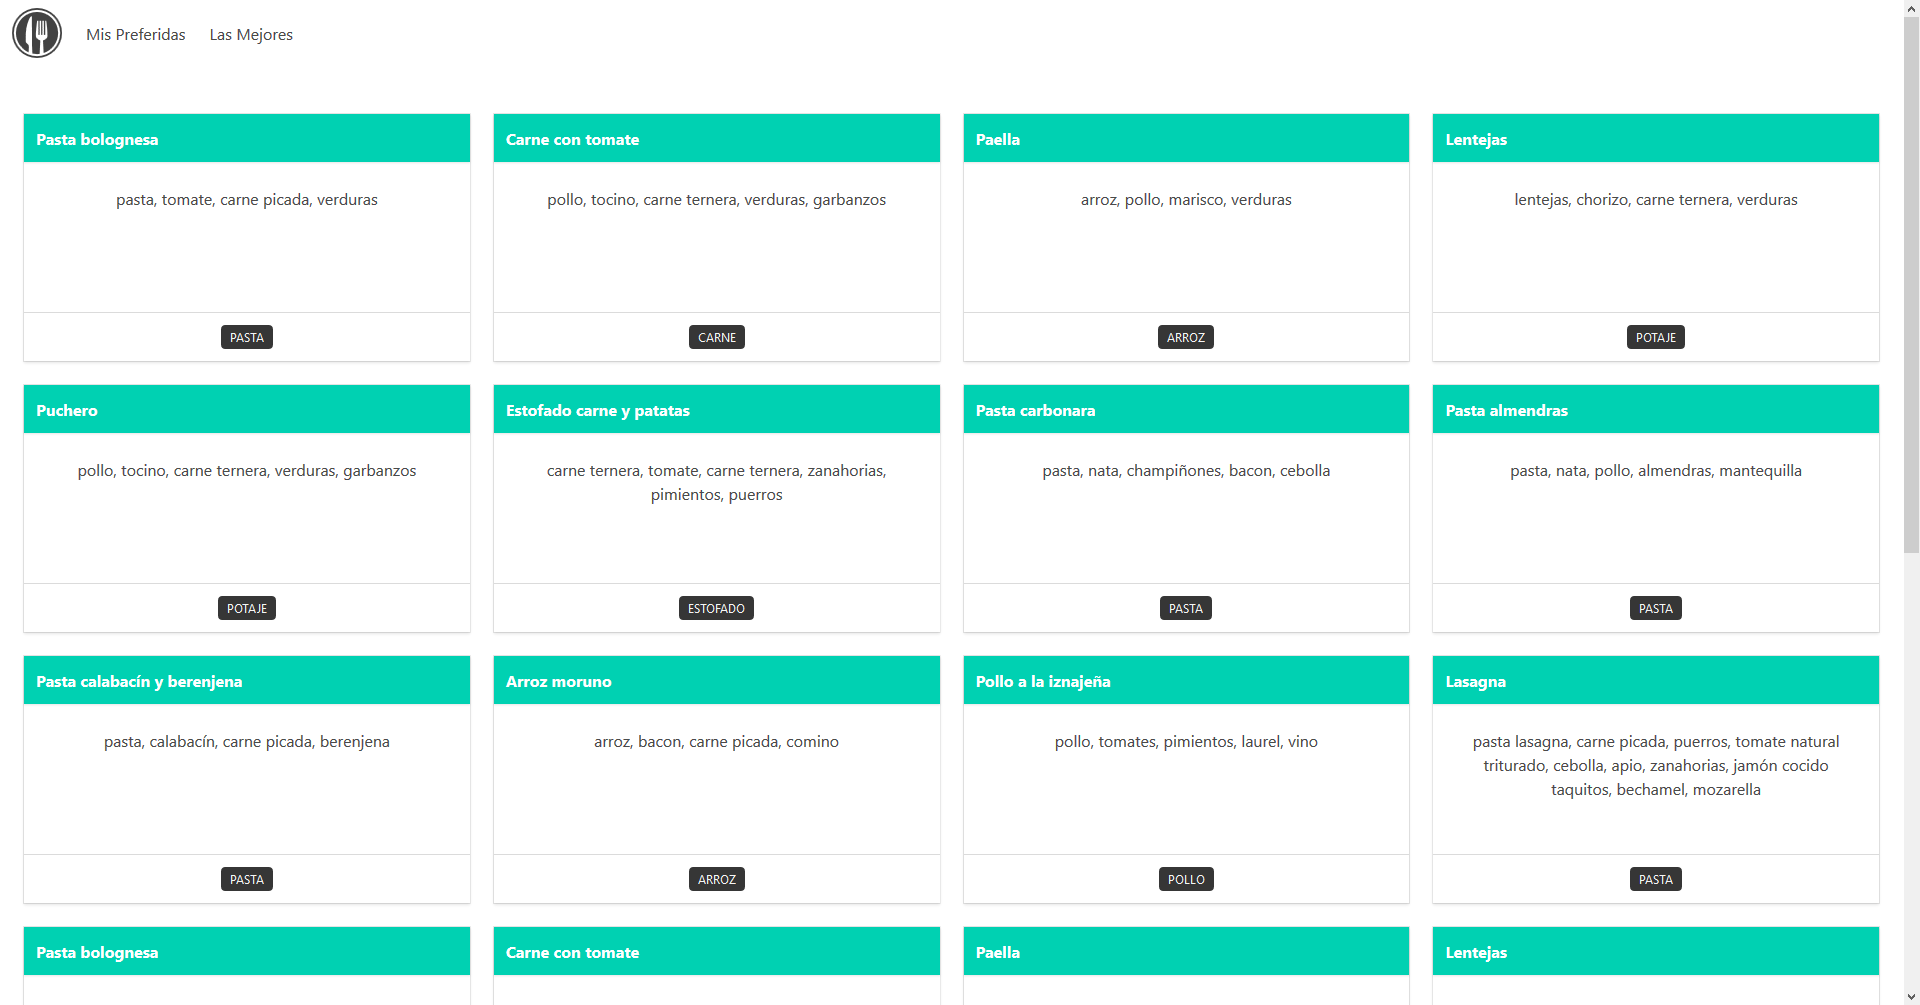
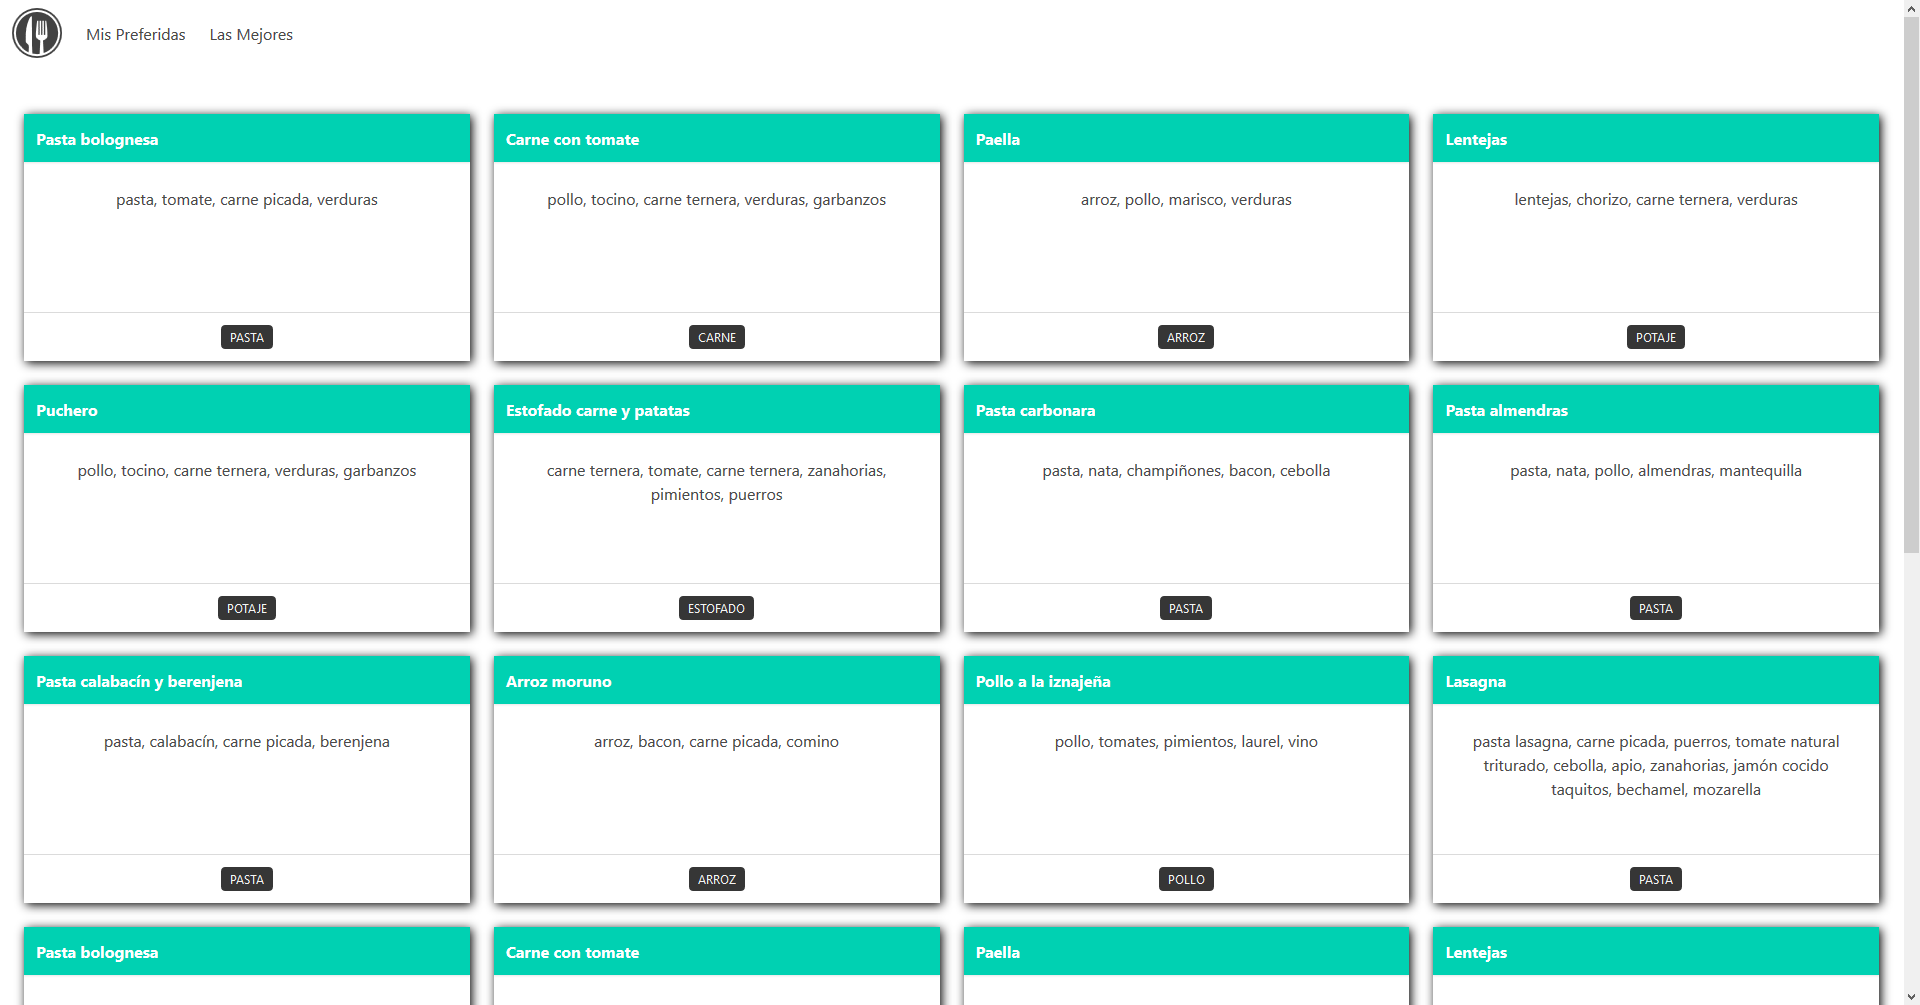
addComponent

Changed region(s): [[0.0, 0.0925, 1.0, 1.0]]

diff --git a/client/src/components/AllRecetas/index.js b/client/src/components/AllRecetas/index.js
@@ -1,4 +1,5 @@
 import React, { Component } from 'react';
+import Receta from '../Receta';
 
 class AllRecetas extends Component {
 
@@ -27,24 +28,7 @@ class AllRecetas extends Component {
                     {this.state.recetas.length!==0 && this.state.recetas.map(receta=>{
                         return (
                             
-                            <div className="column is-12-mobile is-6-tablet is-3-desktop">
-                                <div className="card">
-                                    <div className="card-header has-background-primary">
-                                        <p className="card-header-title has-text-white">{receta.name}</p>
-                                    </div>
-                                    <div style={{minHeight:'150px'}} className="card-content has-text-centered">
-                                        <p>
-                                            {receta.ingredients}
-                                        </p>
-                                    </div>
-                                    <div className="card-footer">
-                                        
-                                        <p className="card-footer-item is-uppercase">
-                                            <span className="tag is-dark">{receta.tag}</span>
-                                        </p>
-                                    </div>
-                                </div>
-                            </div>
+                            <Receta receta={receta}></Receta>
             
                         )
                     } ) }

diff --git a/client/src/components/Receta/index.js b/client/src/components/Receta/index.js
@@ -1,0 +1,29 @@
+import React, { Component } from 'react';
+
+class Receta extends Component {
+    render() {
+        let {id,name,tag,ingredients} = this.props.receta;
+        return (
+            <div className="column is-12-mobile is-6-tablet is-3-desktop">
+                <div className="card">
+                    <div className="card-header has-background-primary">
+                        <p className="card-header-title has-text-white">{name}</p>
+                    </div>
+                    <div style={{ minHeight: '150px' }} className="card-content has-text-centered">
+                        <p>
+                            {ingredients}
+                        </p>
+                    </div>
+                    <div className="card-footer">
+
+                        <p className="card-footer-item is-uppercase">
+                            <span className="tag is-dark">{tag}</span>
+                        </p>
+                    </div>
+                </div>
+            </div>
+        );
+    }
+}
+
+export default Receta;

diff --git a/index.js b/index.js
@@ -3,6 +3,10 @@ var path = require('path');
 var app = express();
 var api = require('./routes/routes');
 
+//En producción serviremos la app en React Js
+//De esta forma, estaremos corriendo en un mismo servidor React (cliente) y la API (backend)
+/* app.use(express.static(path.join(__dirname, 'client/build'))); */
+
 app.use('/api',api);
 
 app.listen(3001,()=>{

diff --git a/client/src/App.css b/client/src/App.css
@@ -2,3 +2,6 @@
     max-height: none;
 	width: 50px
 }
+.card {
+	box-shadow: 0px 0px 5px black
+}

diff --git a/README.md b/README.md
@@ -9,4 +9,4 @@
 * Express Js
 
 ---
-![](https://media.giphy.com/media/CL3XvCSPnAVYA/giphy-downsized-large.gif)
+![wow](https://user-images.githubusercontent.com/13509837/39962390-490ec12e-5623-11e8-87e6-46c6529a5376.gif)
